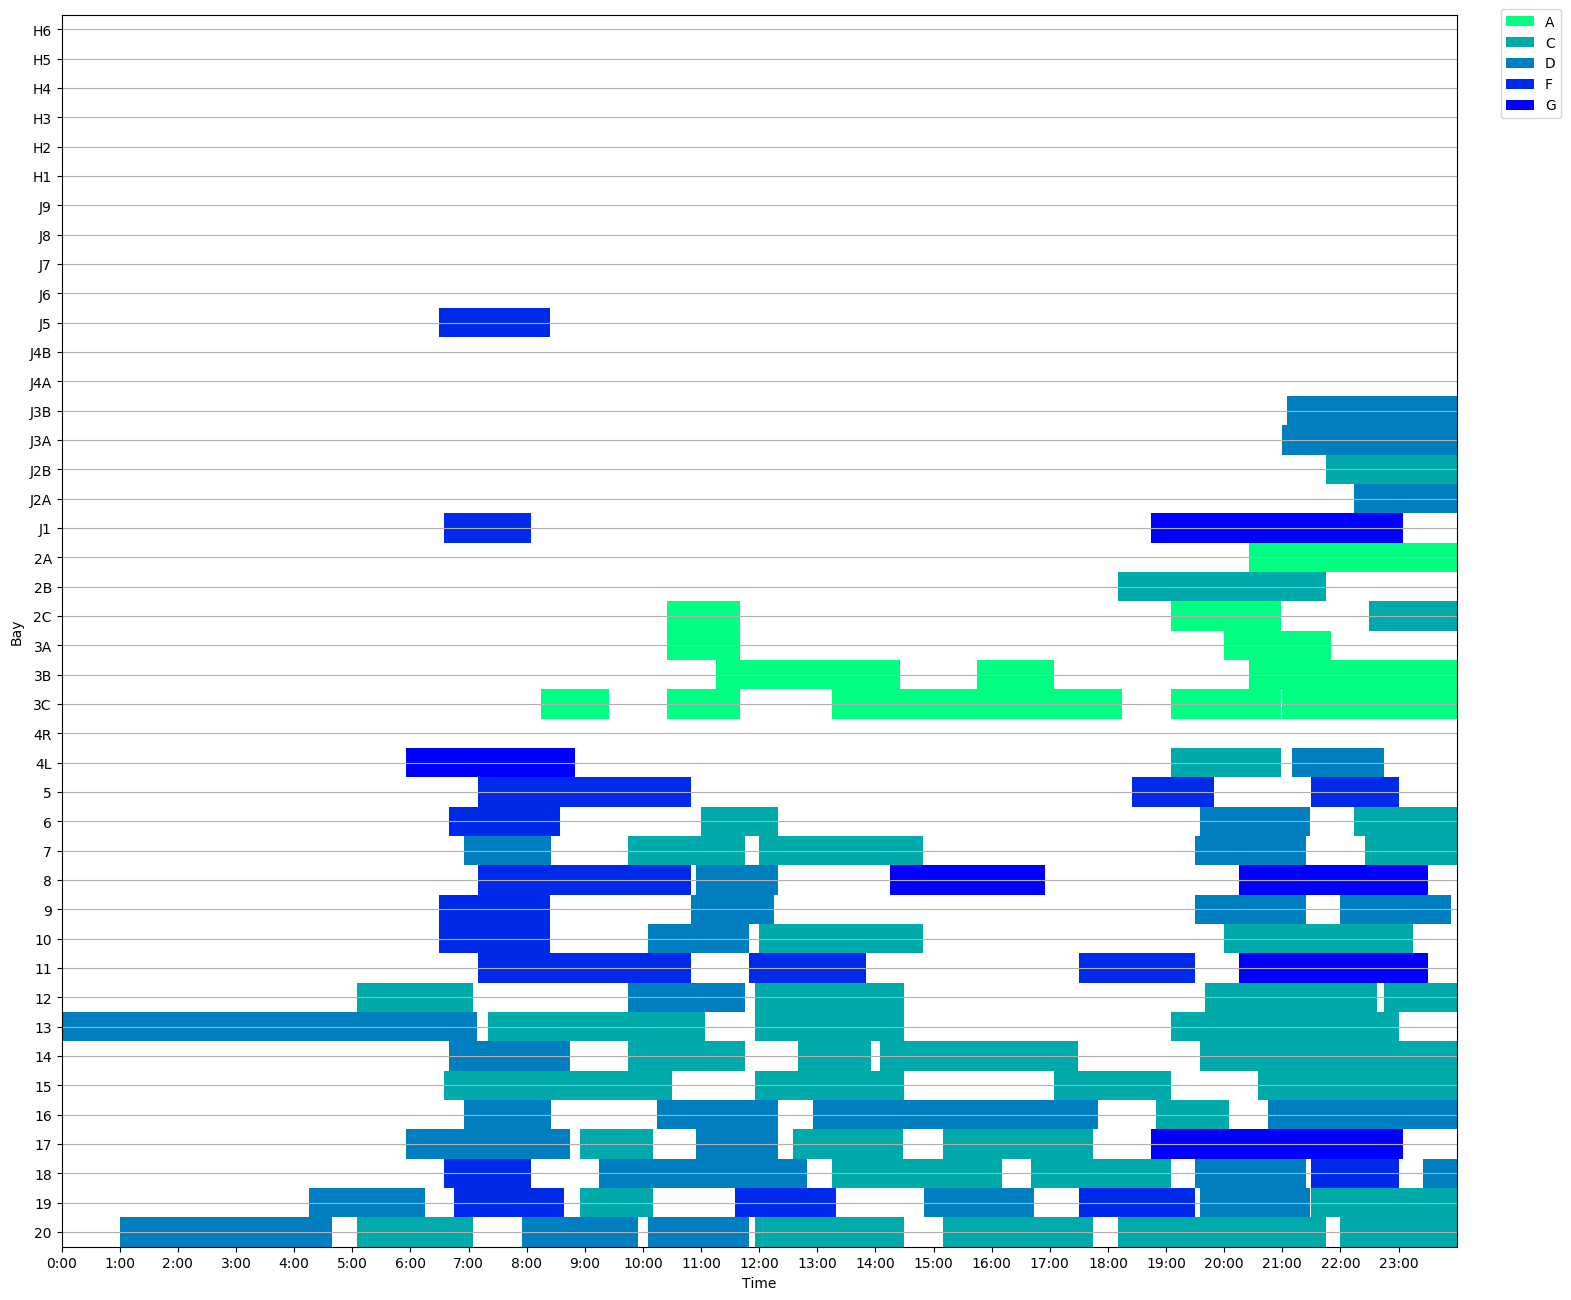
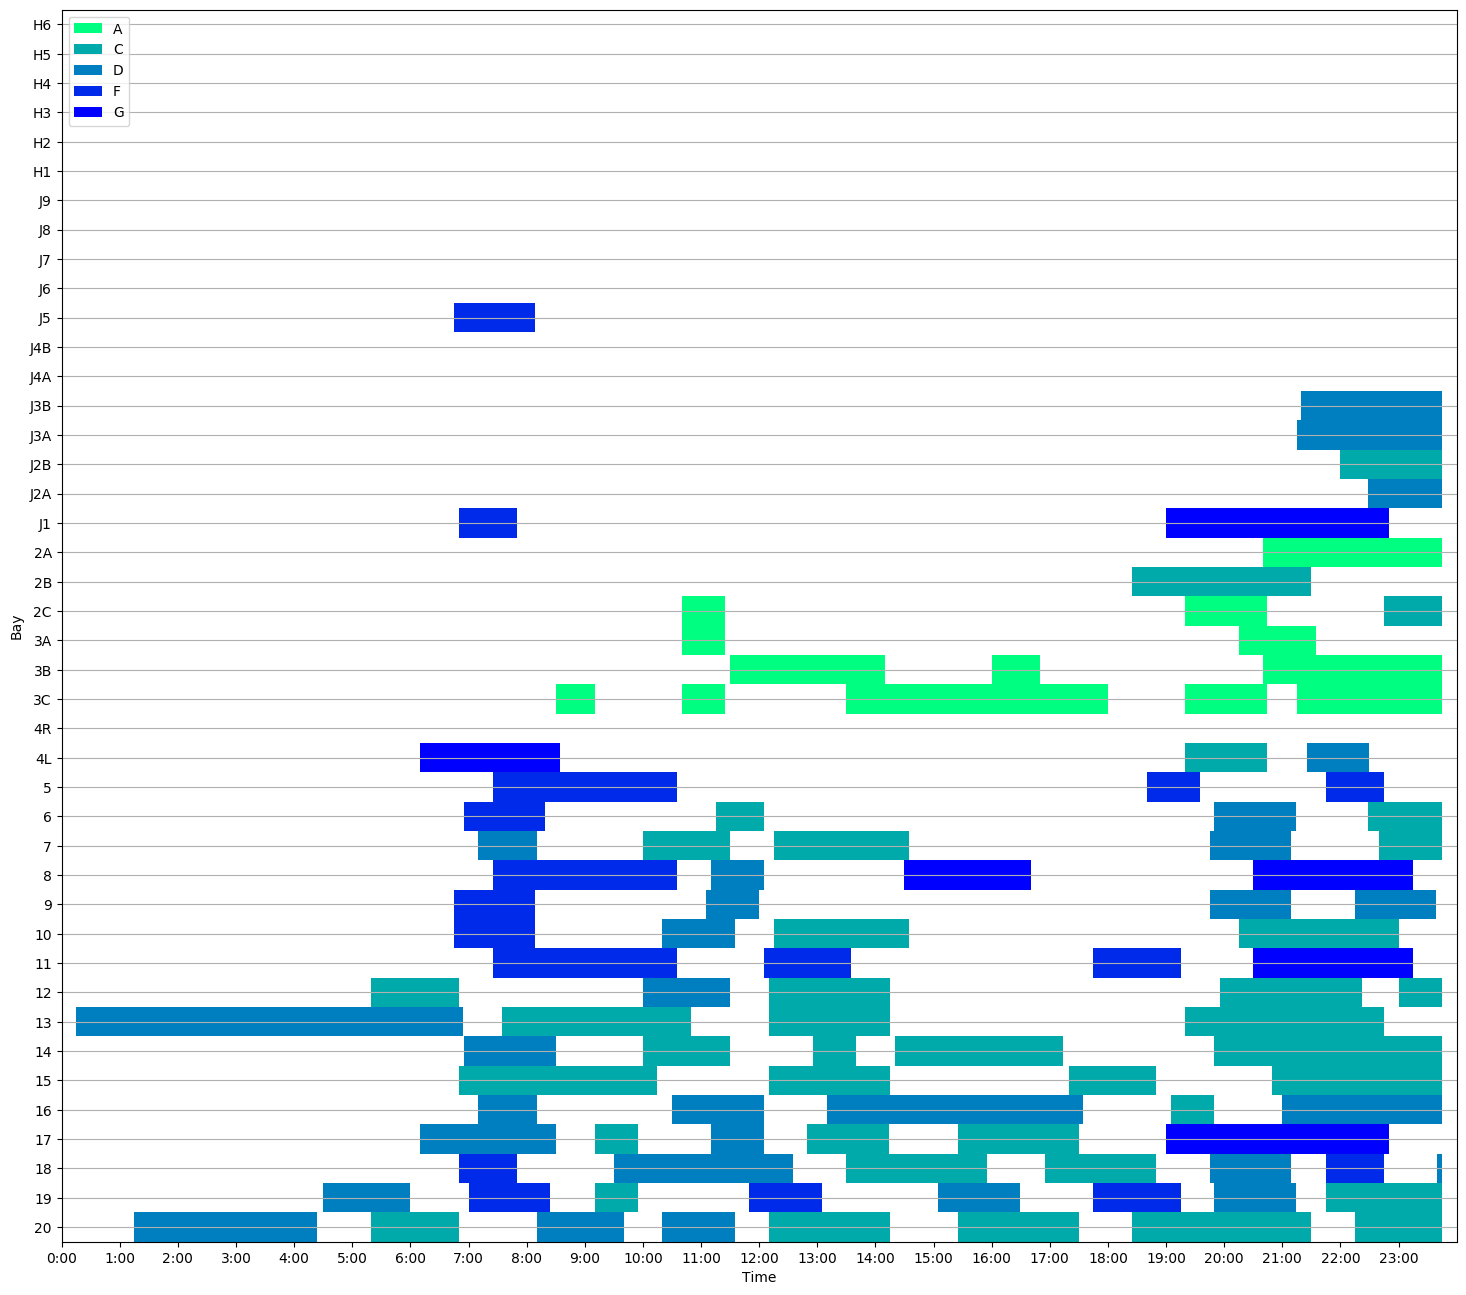
Make plots more accurate

diff --git a/plotter.py b/plotter.py
@@ -36,7 +36,12 @@ for i, _ in enumerate(eta):
     _, bay = assignments[i]
     ac_class = model.ac_class[i]
     rgba = cmap((ord(ac_class) - ord('A')) / (ord('G') - ord('A')))
-    gnt.broken_barh([(eta[i], etd[i] - eta[i])], (bay, 1), facecolors=rgba, label=ac_class)
+
+    arrival = eta[i] + model.buffer / 60.0
+    departure = etd[i] - model.buffer / 60.0
+    stay_period = departure - arrival
+
+    gnt.broken_barh([(arrival, stay_period)], (bay, 1), facecolors=rgba, label=ac_class)
 
 handles, labels = plt.gca().get_legend_handles_labels()
 keys, values = [], []
@@ -46,6 +51,6 @@ for i in sorted(dict):
     keys.append(i)
     values.append(dict[i])
 
-plt.legend(values, keys, bbox_to_anchor=(1.08, 1.01))
+plt.legend(values, keys, loc='upper left')
 plt.savefig(model.results_path + 'gantt.png', bbox_inches='tight')
 plt.show()
